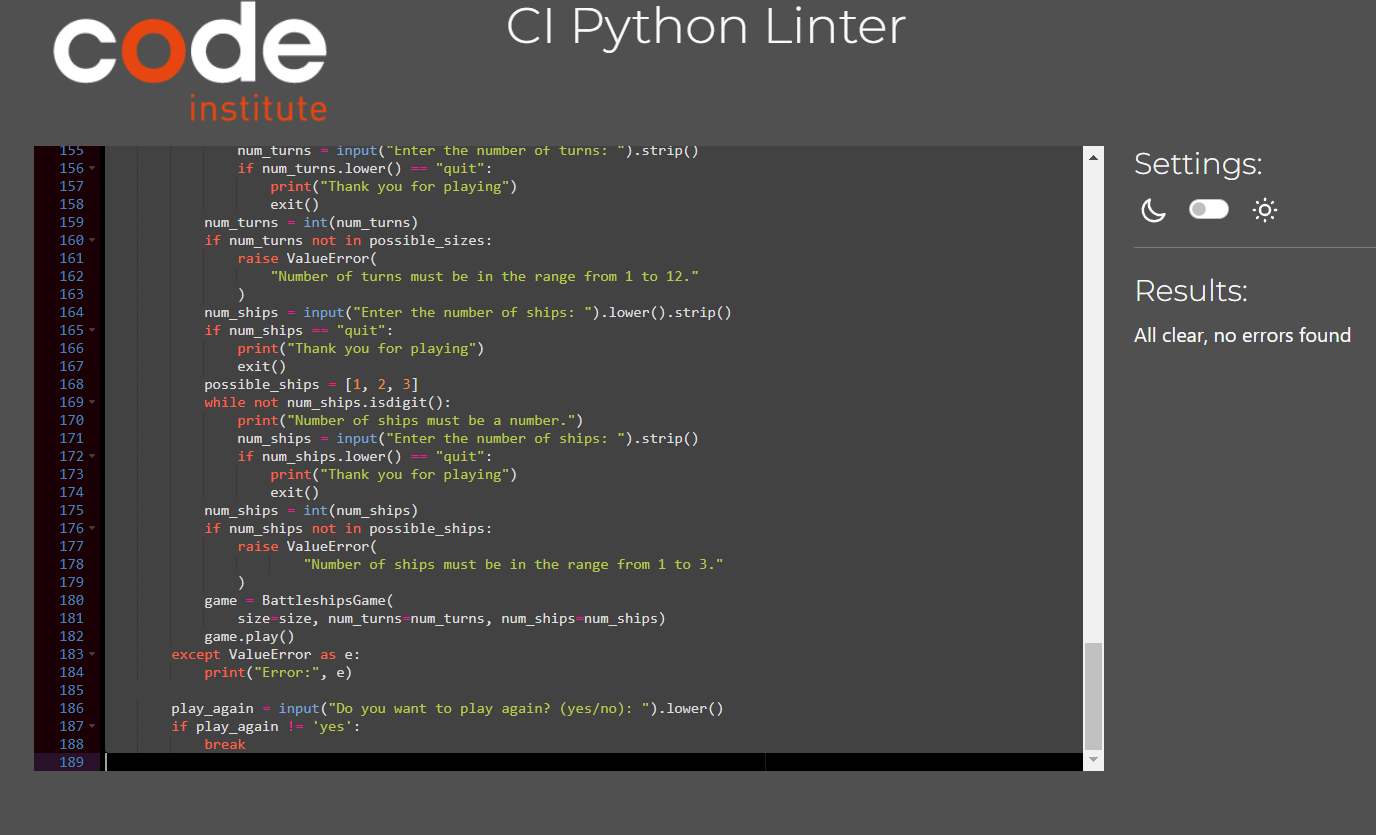
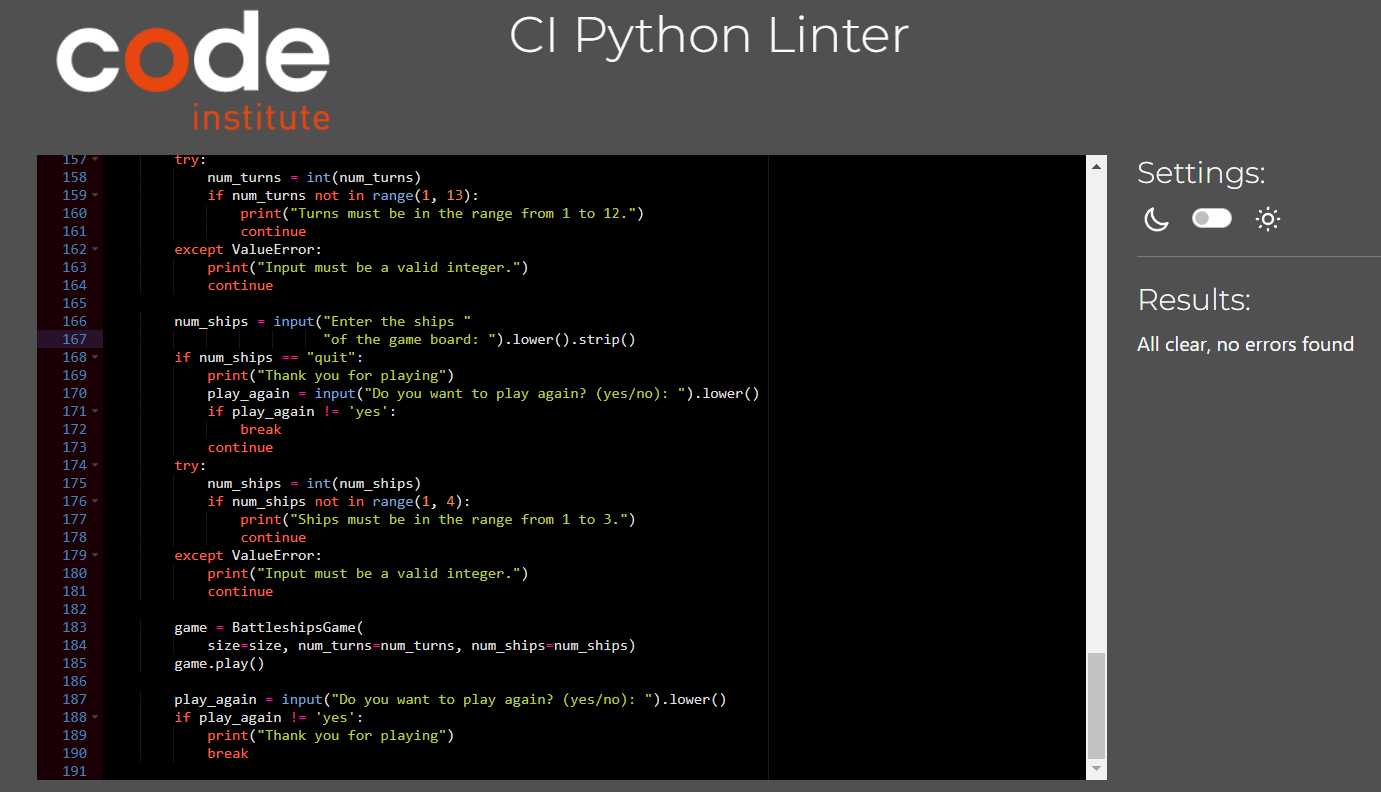
Fix for pep8ci and add readme flowchart

diff --git a/run.py b/run.py
@@ -117,6 +117,7 @@ class BattleshipsGame:
 
         print("Game Over.")
 
+
 if __name__ == "__main__":
     """
     Allows user to choose game board size, number of turns,
@@ -145,7 +146,8 @@ if __name__ == "__main__":
             print("Input must be a valid integer.")
             continue
 
-        num_turns = input("Enter the turns of the game board: ").lower().strip()
+        num_turns = input("Enter the turns "
+                          "of the game board: ").lower().strip()
         if num_turns == "quit":
             print("Thank you for playing")
             play_again = input("Do you want to play again? (yes/no): ").lower()
@@ -161,7 +163,8 @@ if __name__ == "__main__":
             print("Input must be a valid integer.")
             continue
 
-        num_ships = input("Enter the ships of the game board: ").lower().strip()
+        num_ships = input("Enter the ships "
+                          "of the game board: ").lower().strip()
         if num_ships == "quit":
             print("Thank you for playing")
             play_again = input("Do you want to play again? (yes/no): ").lower()

diff --git a/README.md b/README.md
@@ -36,6 +36,13 @@ You can quit at any time by typing the word 'quit'.
 
 ![image of battleships app mid way](readme-images/Battleships-game.png)
 
+## Flowchart
+
+This is a basic flowchart of how the game works out.
+
+![image of battleships flowchart](readme-images/Battleships-flowchart.png)
+
+
 ## Testing
 
 - The testing was done at intervals during the build.
